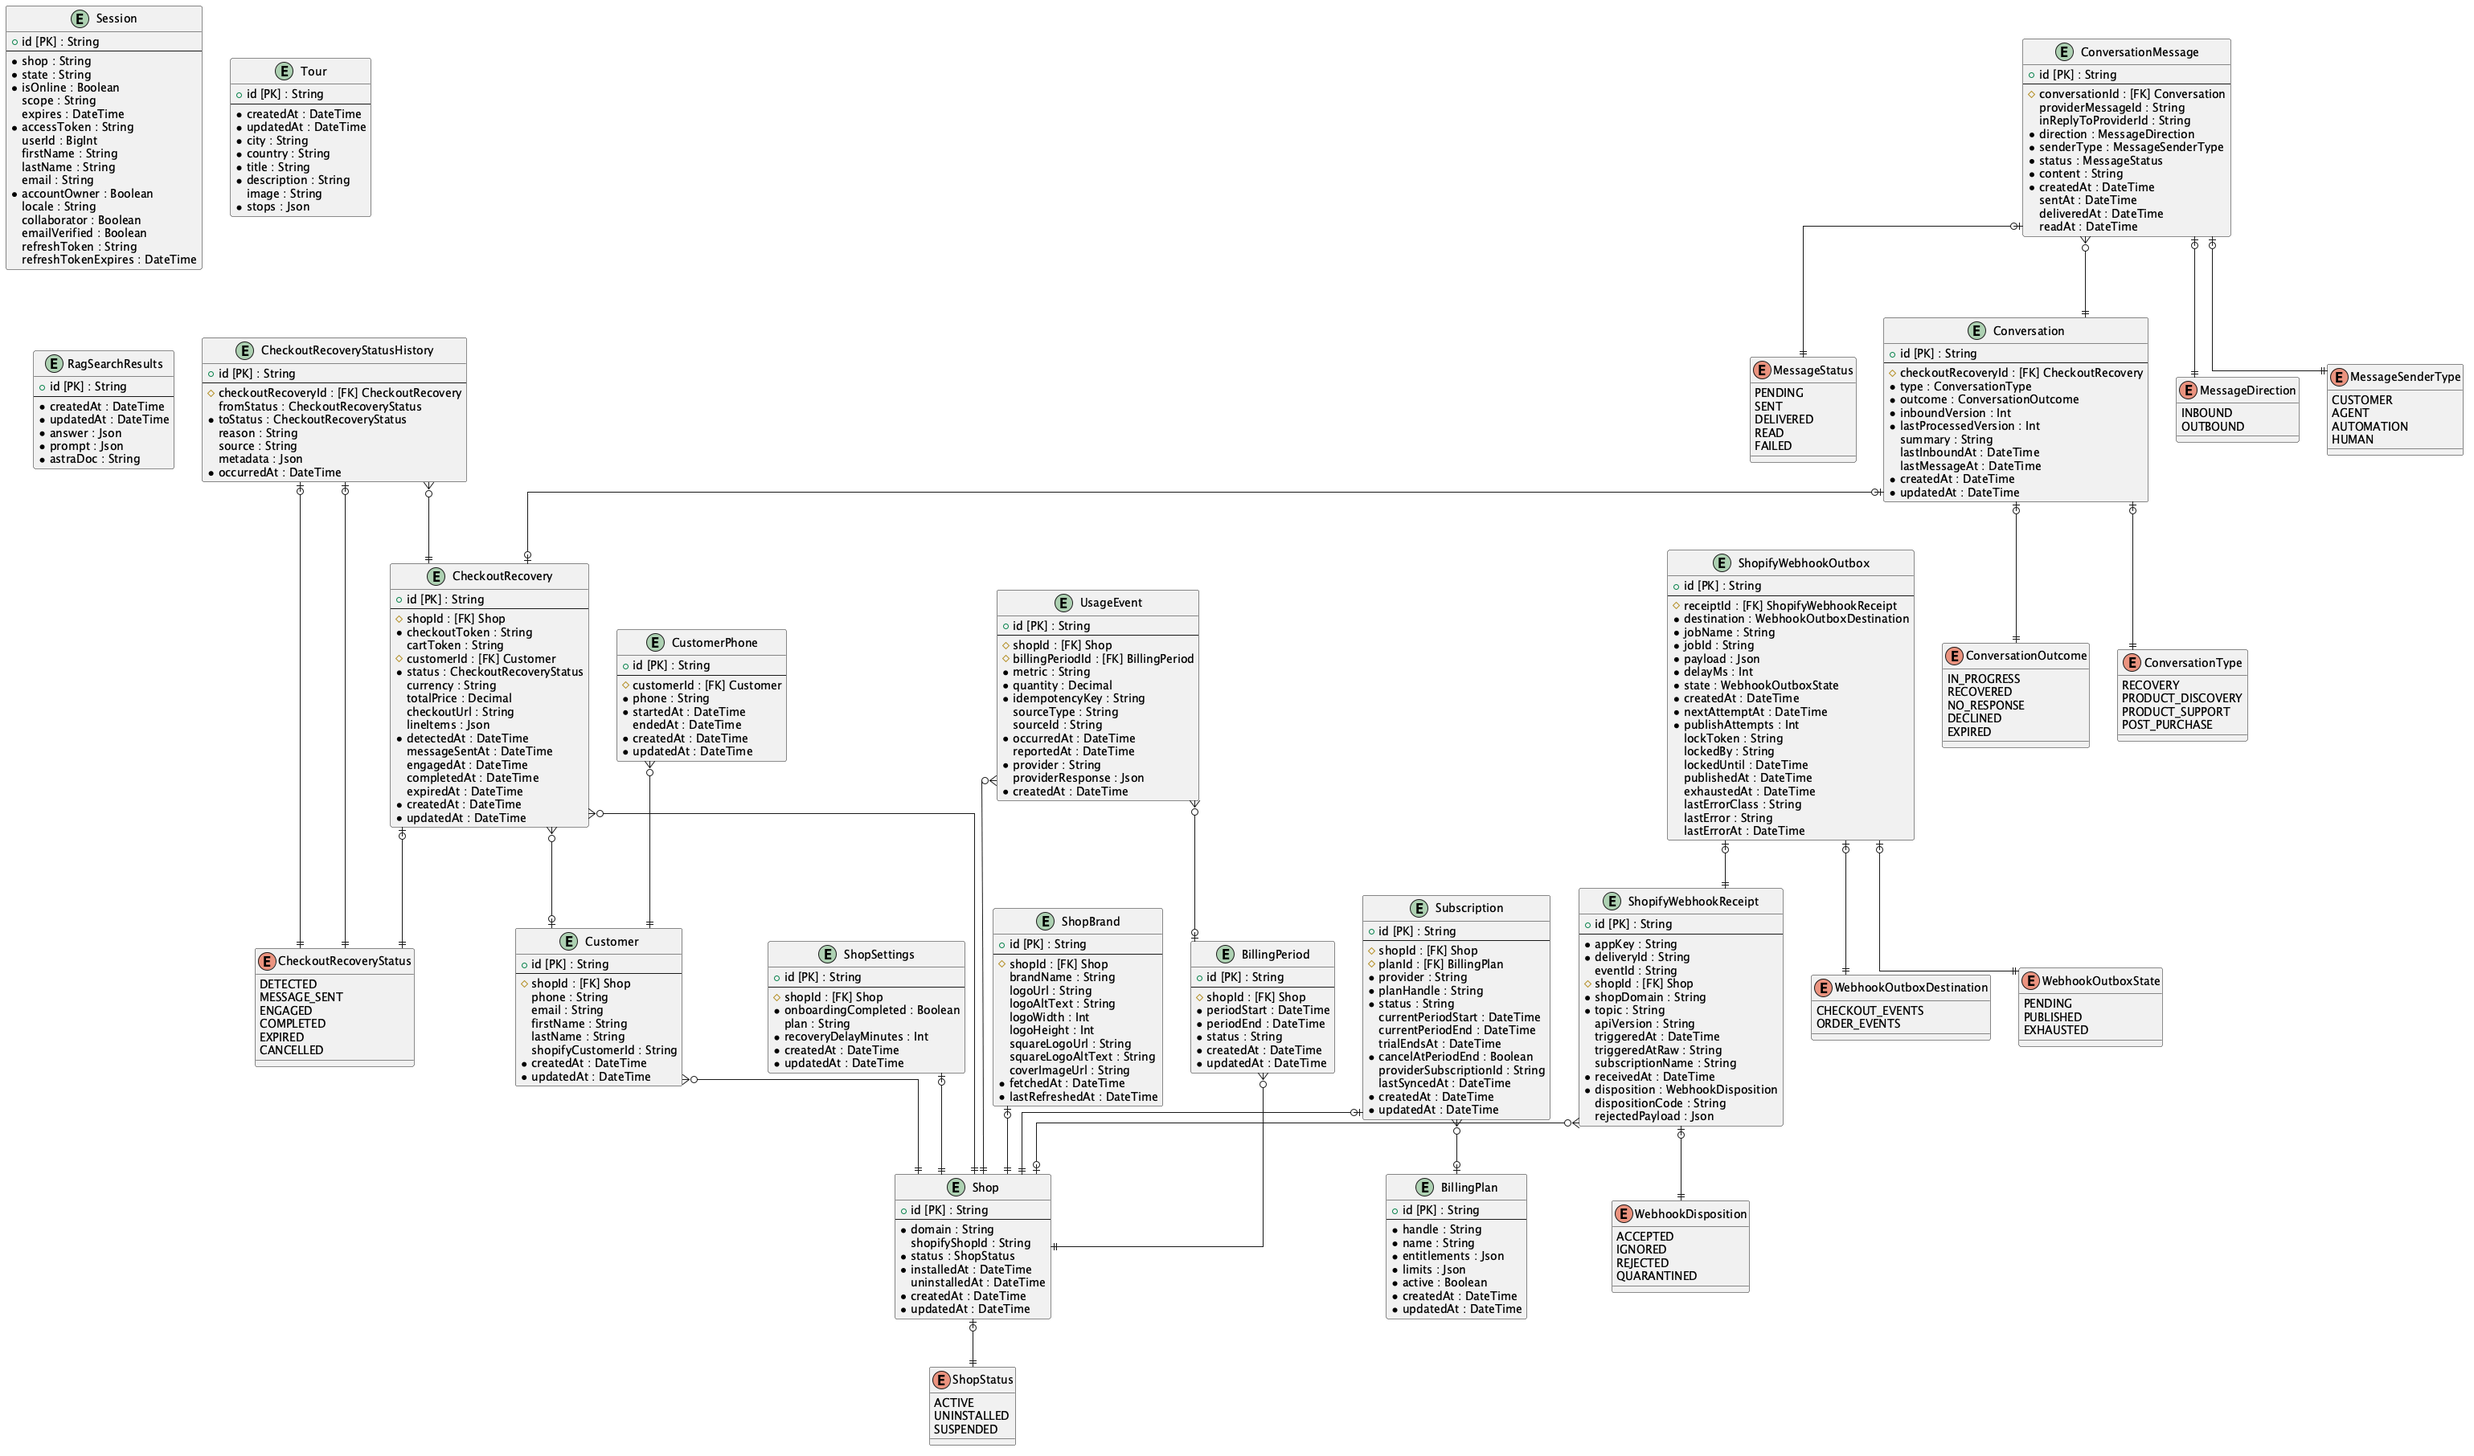
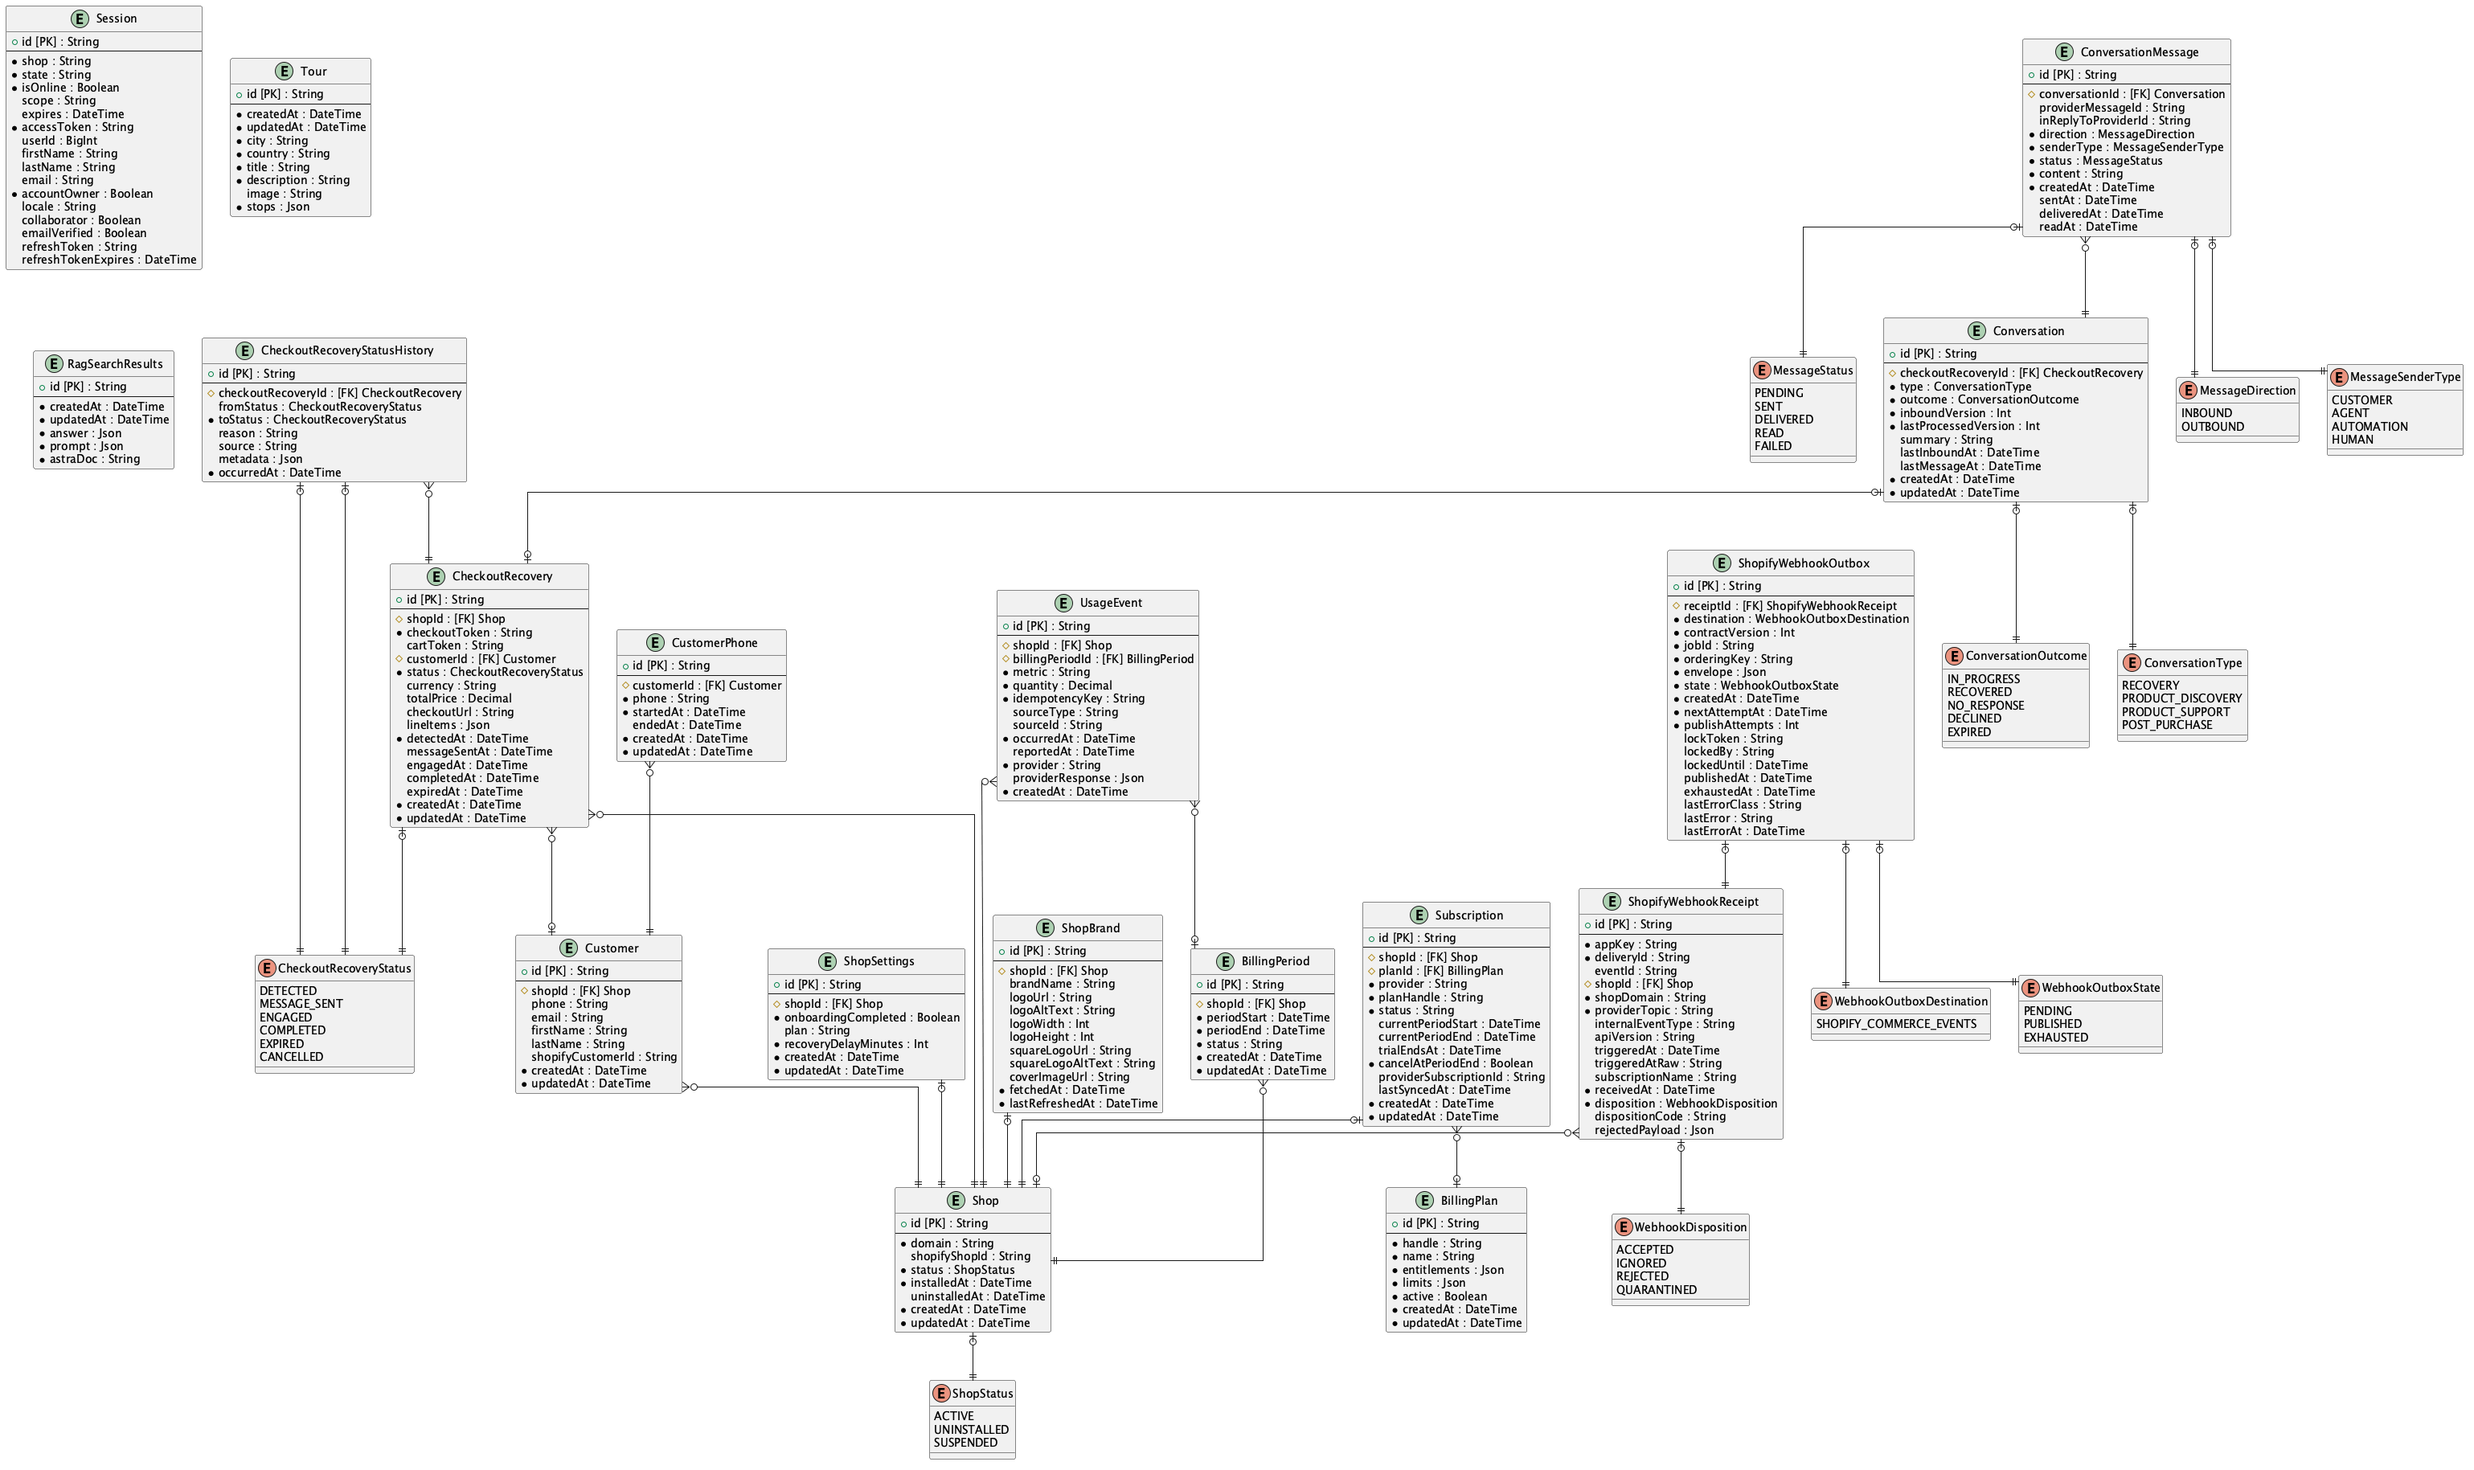
Simplify Shopify webhook schema to commerce events

diff --git a/README.md b/README.md
@@ -47,6 +47,37 @@ The schema currently contains the persistence model for areas including:
 - conversation messages
 - Shopify application data
 
+## Shopify Webhook Contract
+
+The durable Shopify webhook flow stores a receipt row and, for accepted deliveries, exactly one outbox row.
+
+Receipt rows keep request-level metadata only. They record the `deliveryId` retry dedupe key, the optional `eventId` correlation metadata, the shop identity, the provider topic, and the disposition that determines whether an outbox row is created.
+
+The outbox stores the versioned commerce event envelope in `ShopifyWebhookOutbox.envelope`. The current contract is:
+
+```ts
+type ShopifyWebhookJobV1<T> = {
+   schemaVersion: 1;
+   receiptId: string;
+   deliveryId: string;
+   eventId: string | null;
+   source: "shopify";
+   eventType: "checkout.observed" | "order.completed";
+   providerTopic: string;
+   tenant: {
+      shopId: string;
+      shopDomain: string;
+   };
+   occurredAt: string | null;
+   receivedAt: string;
+   traceId: string;
+   orderingKey: string;
+   payload: T;
+};
+```
+
+Webhook dispatch is immediate. Recovery timing is derived later by background processing after the webhook has been durably applied.
+
 Application repositories generate their Prisma clients from this shared schema.
 
 ## Migrations
